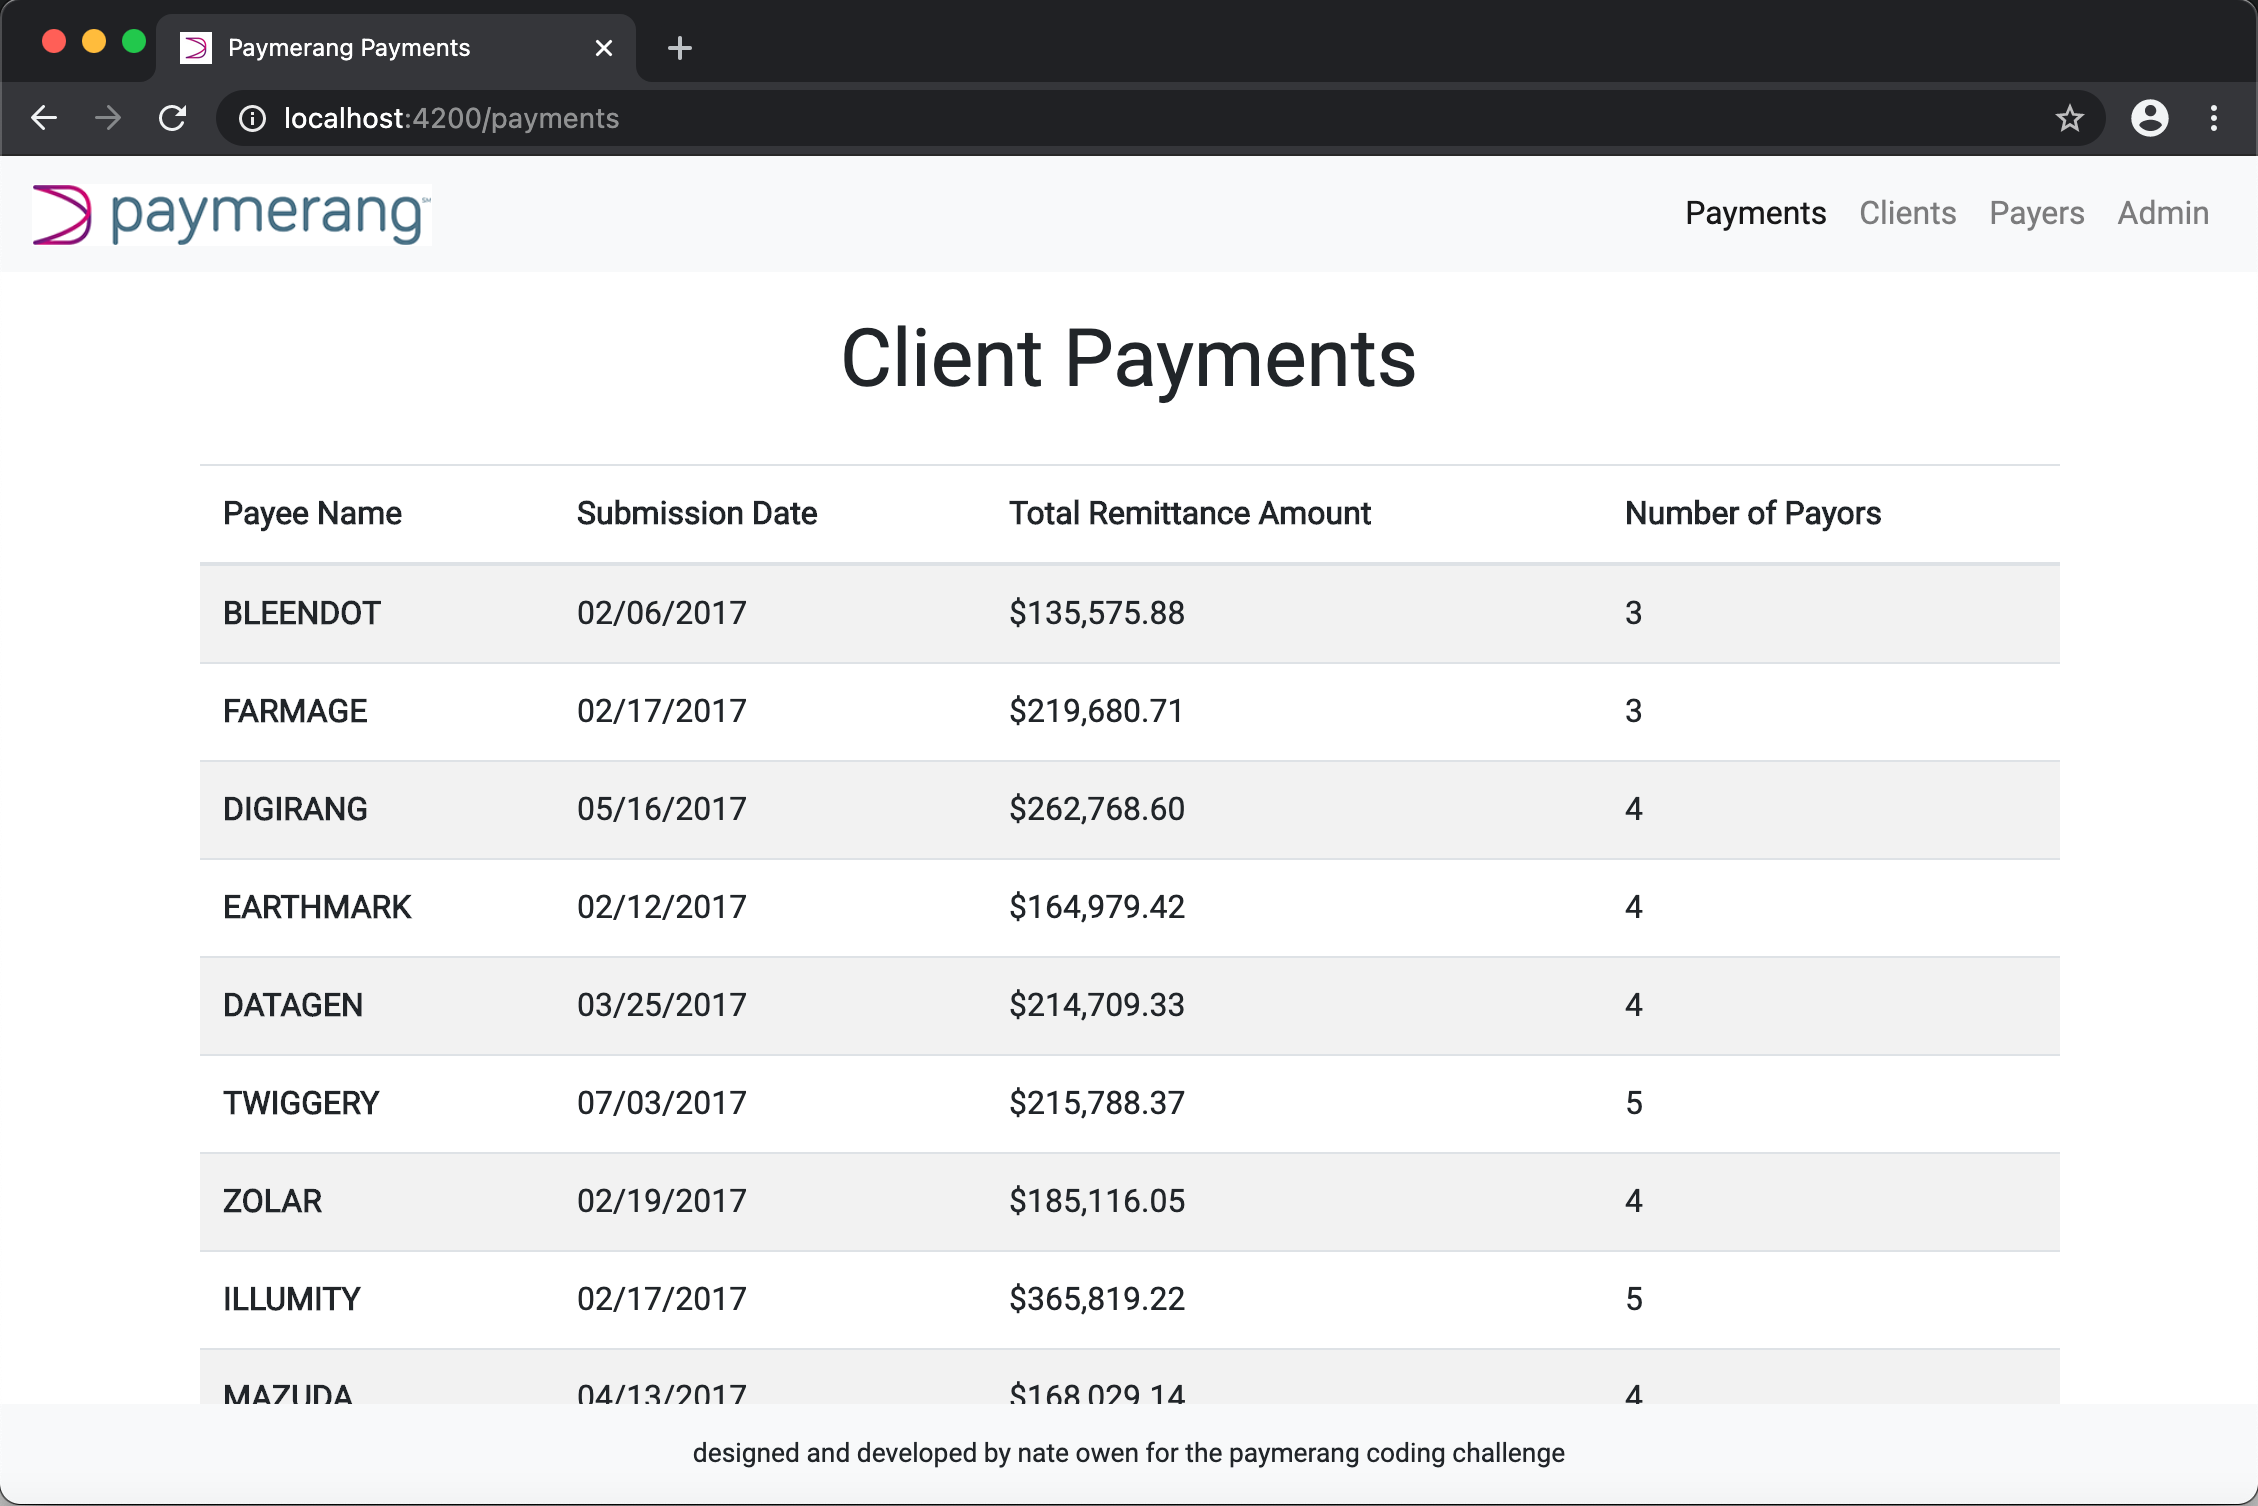
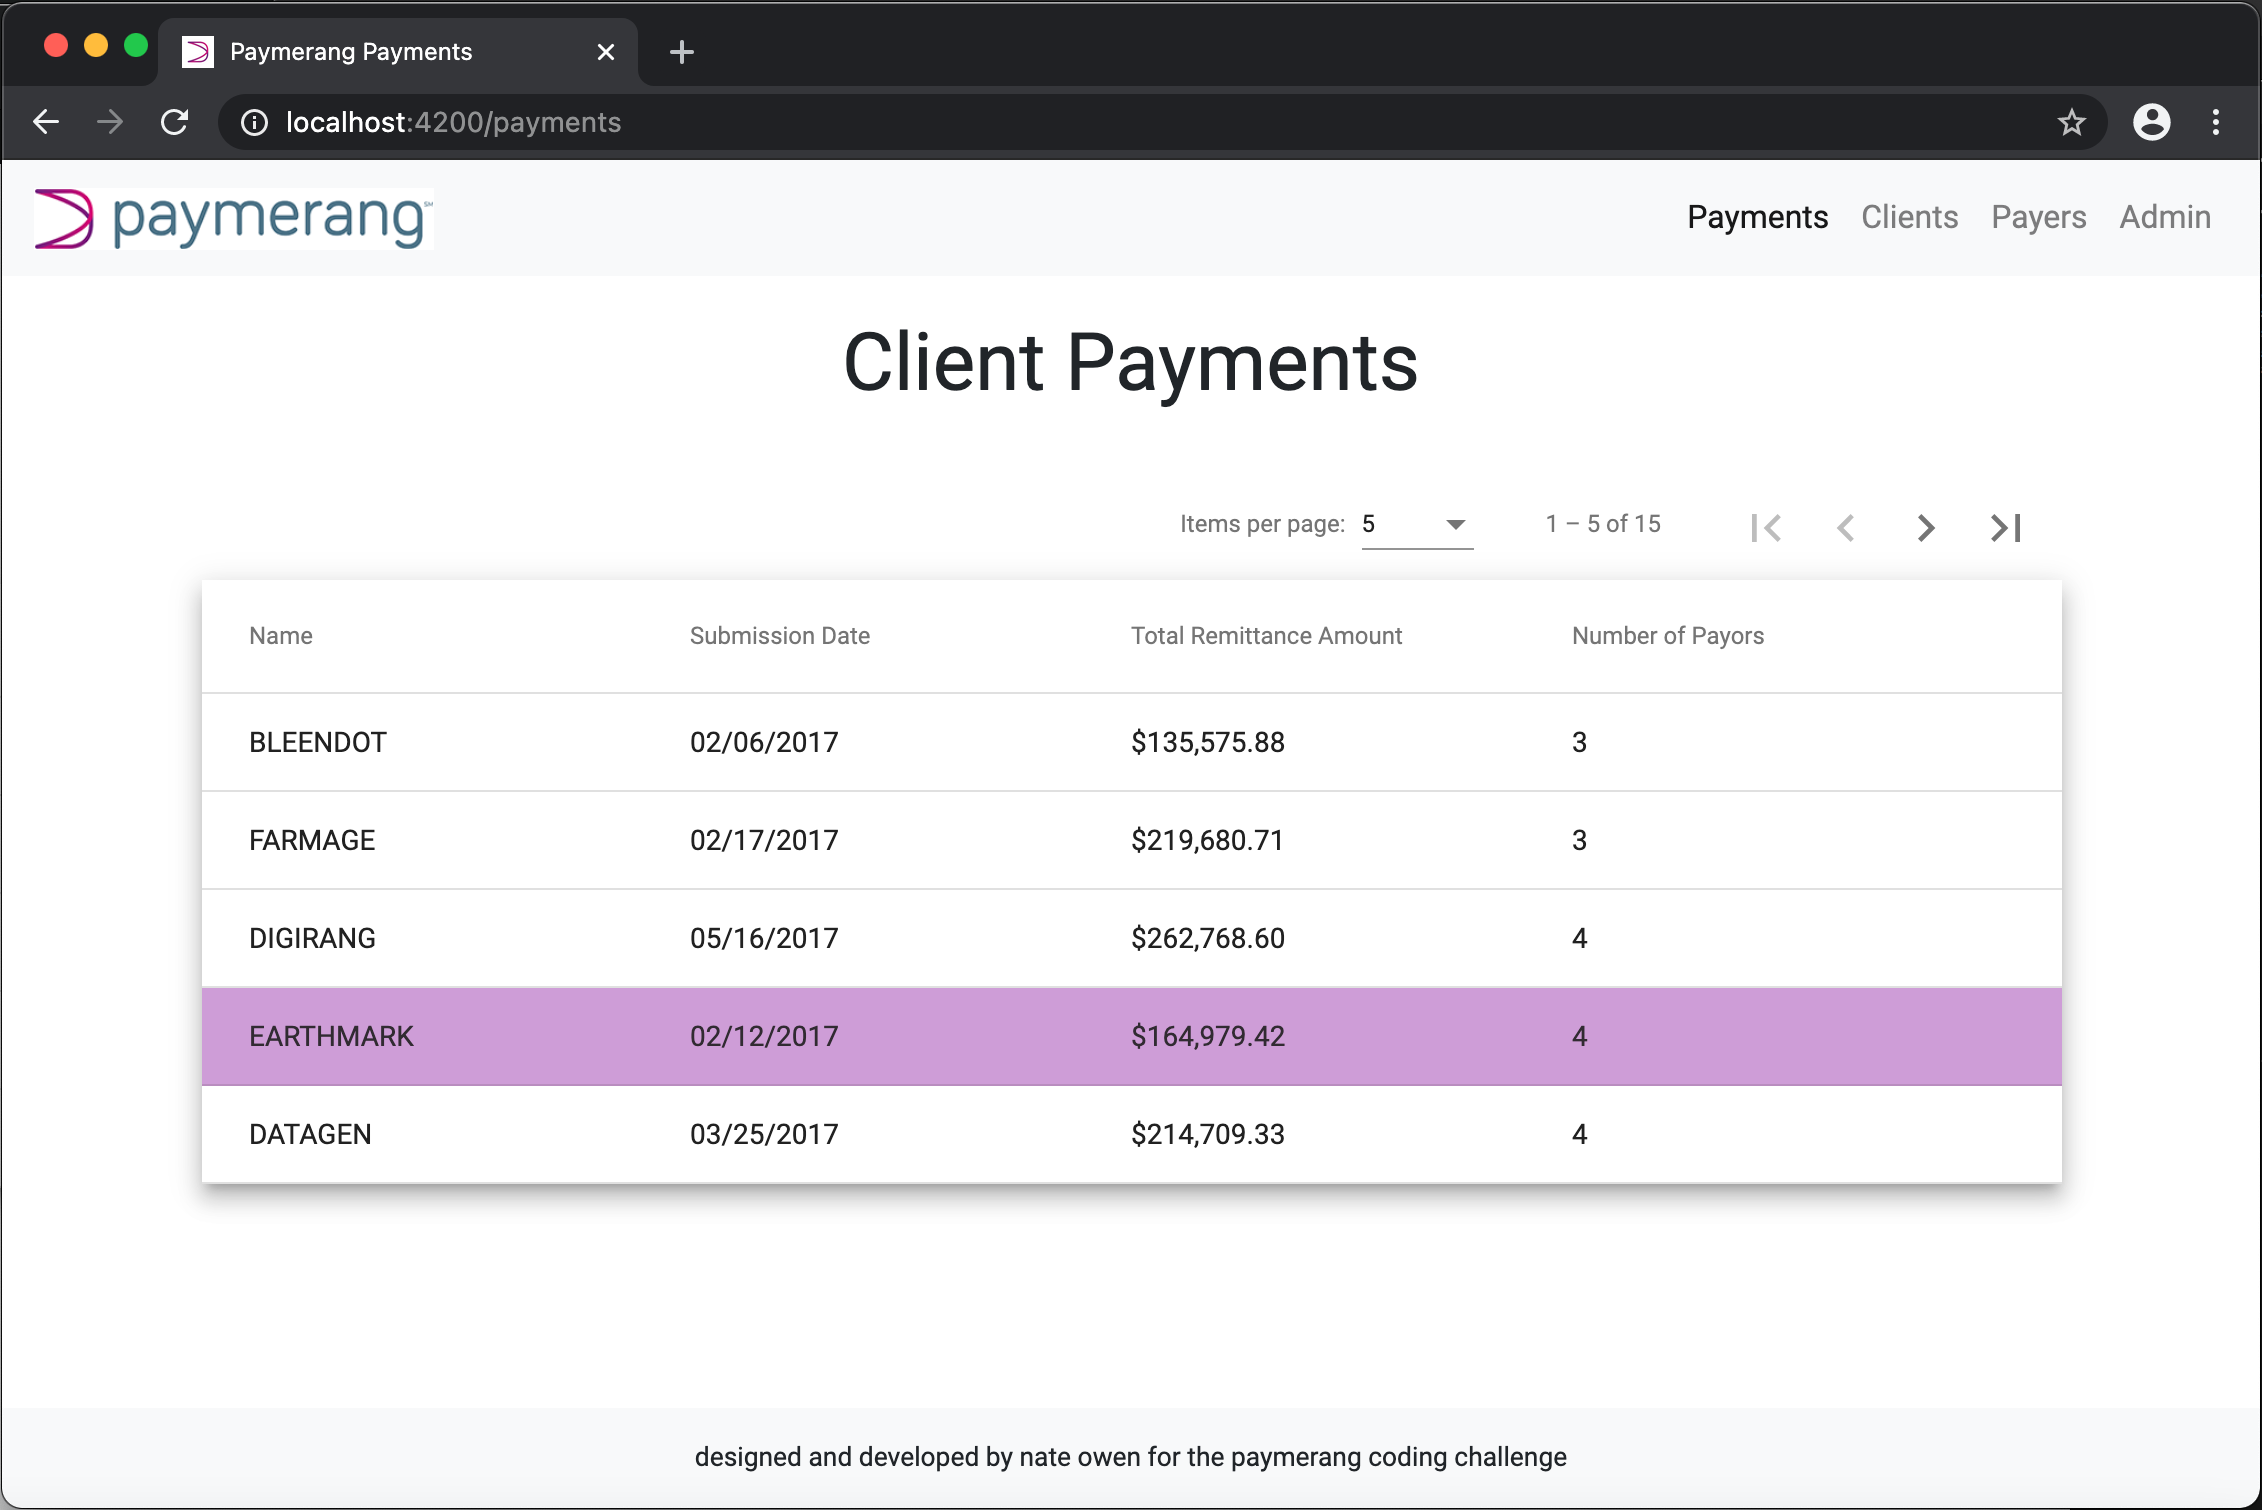
Switching to MatTable and implemented pagination

diff --git a/src/app/client-payments/paymerang-payment-overview/paymerang-payment-overview.component.html b/src/app/client-payments/paymerang-payment-overview/paymerang-payment-overview.component.html
@@ -5,26 +5,35 @@
         </div>
     </div>
 
-    <div *ngIf='paymentData && paymentData.length > 0' class='row'>
+    <div class='row'>
         <div class='col-xl-12' id='payment-data-table'>
-            <table class='table table-striped table-hover'>
-                <thead>
-                    <tr>
-                        <th scope="col">Payee Name</th>
-                        <th scope="col">Submission Date</th>
-                        <th scope="col">Total Remittance Amount</th>
-                        <th scope="col">Number of Payors</th>
-                    </tr>
-                </thead>
-                <tbody>
-                    <tr *ngFor='let data of paymentData' (click)='openPaymentModal(data)'>
-                        <th scope="row"> {{ data.Payee.Name }} </th>
-                        <td> {{ data.Payee.SubmissionDate | date: 'MM/dd/yyyy'}} </td>
-                        <td>{{ data.TotalRemittanceAmount | currency }}</td>
-                        <td>{{ data.Remittance.length }}</td>
-                    </tr>
-                </tbody>
-            </table>
+            <mat-paginator [pageSizeOptions]="[5, 10, 20]" showFirstLastButtons></mat-paginator>
+
+            <mat-table [dataSource]="dataSource" class="mat-elevation-z8">
+                <ng-container matColumnDef="name">
+                  <mat-header-cell *matHeaderCellDef> Name </mat-header-cell>
+                  <mat-cell *matCellDef="let data"> {{ data.Payee.Name }} </mat-cell>
+                </ng-container>
+              
+                <ng-container matColumnDef="submissionDate">
+                  <mat-header-cell *matHeaderCellDef> Submission Date </mat-header-cell>
+                  <mat-cell *matCellDef="let data"> {{ data.Payee.SubmissionDate | date: 'MM/dd/yyyy' }} </mat-cell>
+                </ng-container>
+              
+                <ng-container matColumnDef="totalRemittanceAmount">
+                  <mat-header-cell *matHeaderCellDef> Total Remittance Amount </mat-header-cell>
+                  <mat-cell *matCellDef="let data"> {{ data.TotalRemittanceAmount | currency }} </mat-cell>
+                </ng-container>
+              
+                <ng-container matColumnDef="numberOfPayors">
+                  <mat-header-cell *matHeaderCellDef> Number of Payors </mat-header-cell>
+                  <mat-cell *matCellDef="let data"> {{ data.Remittance.length }} </mat-cell>
+                </ng-container>
+              
+                <mat-header-row *matHeaderRowDef="displayedColumns"></mat-header-row>
+                <mat-row *matRowDef="let row; columns: displayedColumns;" (click)='openPaymentModal(row)'></mat-row>
+              </mat-table>
+
         </div>
     </div>
 </div>

diff --git a/src/app/client-payments/paymerang-payment-overview/paymerang-payment-overview.component.ts b/src/app/client-payments/paymerang-payment-overview/paymerang-payment-overview.component.ts
@@ -1,5 +1,7 @@
-import { Component, OnInit } from '@angular/core';
+import { Component, OnInit, ViewChild } from '@angular/core';
 import { MatDialog, MatDialogConfig } from '@angular/material/dialog';
+import {MatPaginator} from '@angular/material/paginator';
+import {MatTableDataSource} from '@angular/material/table';
 import { PaymentService } from '../../services/payment-service';
 import { PaymentInfoDialogComponent } from '../payment-info/payment-info-dialog/payment-info-dialog.component';
 import { PaymerangPayment } from '../../types/paymerang-types';
@@ -11,16 +13,21 @@ import { PaymerangPayment } from '../../types/paymerang-types';
 })
 
 export class PaymerangPaymentOverviewComponent implements OnInit {
-  paymentData: Array<PaymerangPayment>;
+  dataSource = new MatTableDataSource<PaymerangPayment>([]);
+  displayedColumns: string[] = ['name', 'submissionDate', 'totalRemittanceAmount', 'numberOfPayors'];
+
+  @ViewChild(MatPaginator, {static: true}) paginator: MatPaginator;
 
   constructor(private paymentService: PaymentService, private dialog: MatDialog) { }
 
   ngOnInit(): void {
-    this.paymentData = this.paymentService.getPaymentData();
+    this.dataSource.data = this.paymentService.getPaymentData();
+    this.dataSource.paginator = this.paginator;
   }
 
   openPaymentModal(payment: PaymerangPayment): void {
     var dialogConfig = new MatDialogConfig();
+    console.log(payment);
     const dialogRef = this.dialog.open(PaymentInfoDialogComponent, {
       height: '500px',
       width: '1000px',

diff --git a/src/app/app.module.ts b/src/app/app.module.ts
@@ -4,6 +4,8 @@ import { NgModule } from '@angular/core';
 import { RouterModule, Routes } from '@angular/router';
 import { MatDialogModule } from '@angular/material/dialog';
 import { MatTabsModule  } from '@angular/material/tabs';
+import { MatTableModule } from '@angular/material/table';
+import { MatPaginatorModule } from '@angular/material/paginator';
 
 import { AppRoutingModule } from './app-routing.module';
 import { AppComponent } from './app.component';
@@ -33,6 +35,8 @@ const appRoutes: Routes = [
     AppRoutingModule,
     MatDialogModule,
     MatTabsModule,
+    MatTableModule,
+    MatPaginatorModule,
     RouterModule.forRoot(
       appRoutes
     ),

diff --git a/src/app/client-payments/paymerang-payment-overview/paymerang-payment-overview.component.css b/src/app/client-payments/paymerang-payment-overview/paymerang-payment-overview.component.css
@@ -2,3 +2,10 @@
     padding-top: 20px;
     padding-bottom: 20px;
 }
+
+.mat-row:hover {
+    background-color: #c892d4;
+    transition: 0.3s;
+    opacity: .9;
+    color: white;
+}
